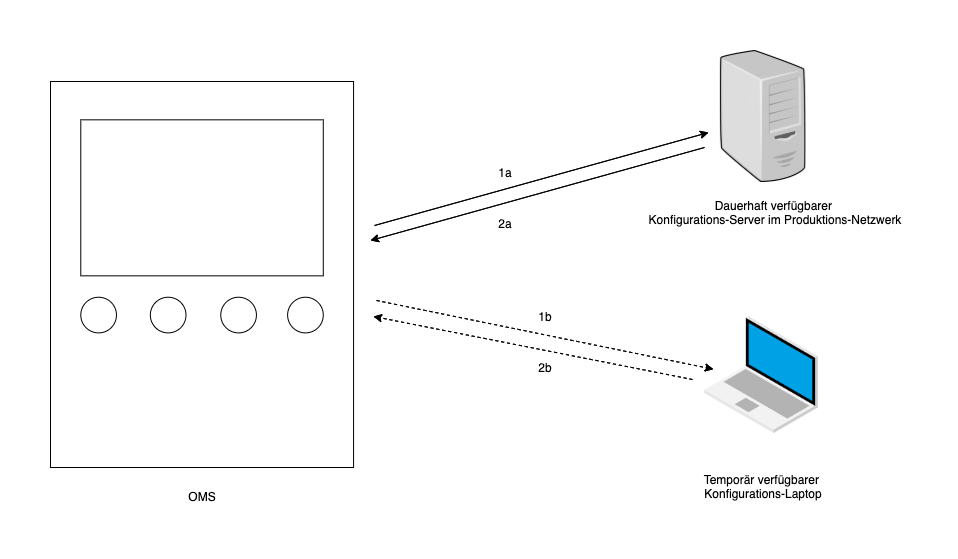
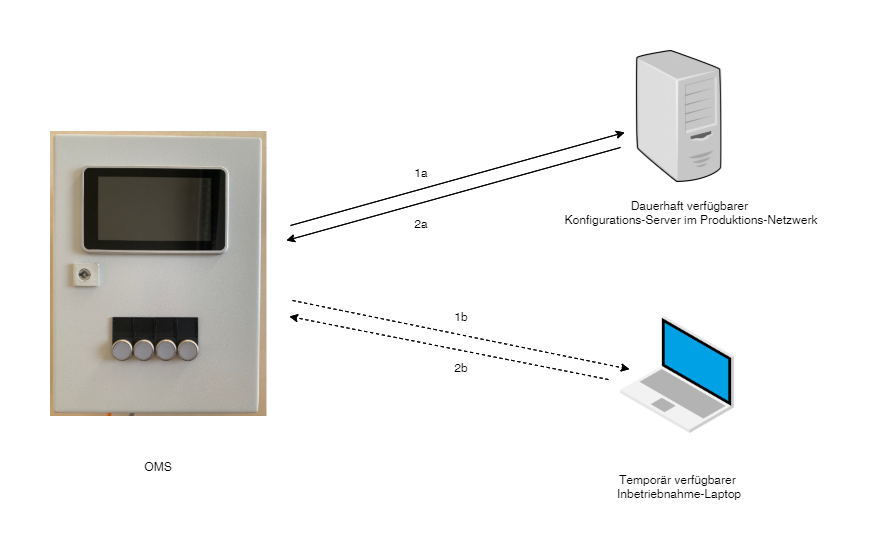
Revised drawing.

diff --git a/working_principle/working_principle_main.md b/working_principle/working_principle_main.md
@@ -1,9 +1,15 @@
 # Funktionsprinzip
-## Das Prinzip "AppWare"
+## Download der "AppWare"
 
 Das OMS verfügt nach der Basisinstallation lediglich über einen "Bootstrapper", welcher die eigentliche Applikation und die dazugehörige Gerätekonfiguration von einem Konfigurations-Server oder einem Inbetriebnahme-Laptop herunterlädt. Die Applikation und die dazugehörige Konfiguration bezeichnen wir als "AppWare". 
 
-Der Bootstrapper bleibt auch nach dem "initialen" Download der AppWare aktiv. Damit sind jederzeit Updates der Applikation und der Konfiguration möglich.
+Der Bootstrapper bleibt auch nach dem "initialen" Download der AppWare aktiv. Damit sind durch erneute Downloads jederzeit Updates der AppWare möglich.
+
+Der Download der AppWare erfolgt über HTTP, in der Regel über die im OMS eingebaute WLAN-Netzwerkkarte oder alternativ über Kabel.
+
+![Download der AppWare](./OMS Overview.png?raw=true "Systray IlsDesktop Icon")
+
+Bei der Konfiguration des OMS können beide
 
 
 
